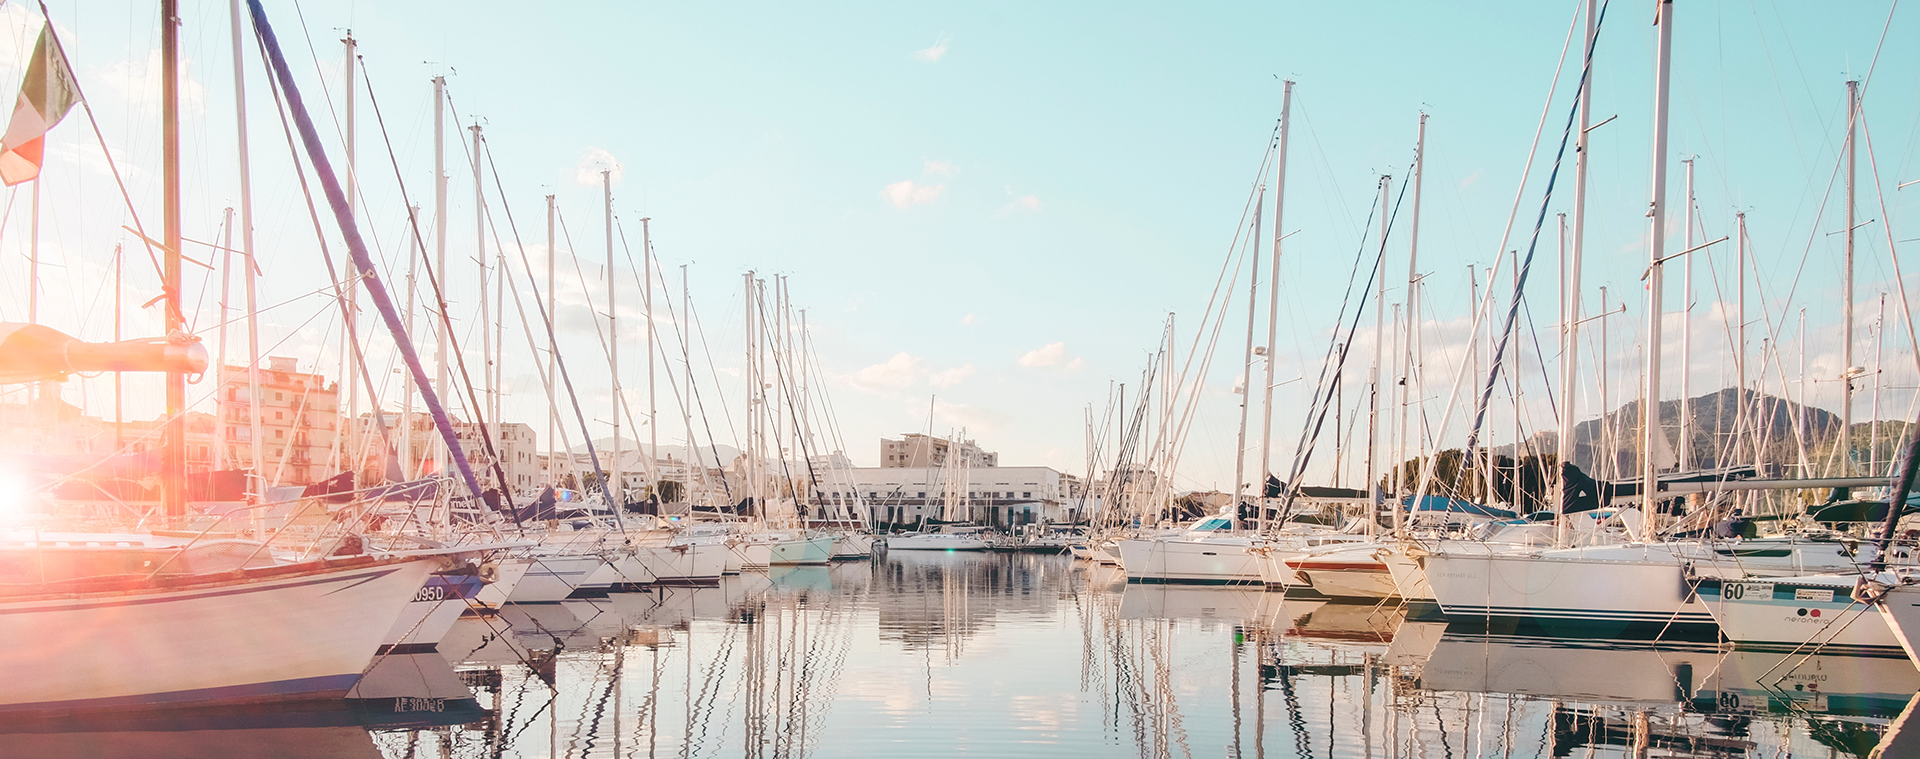
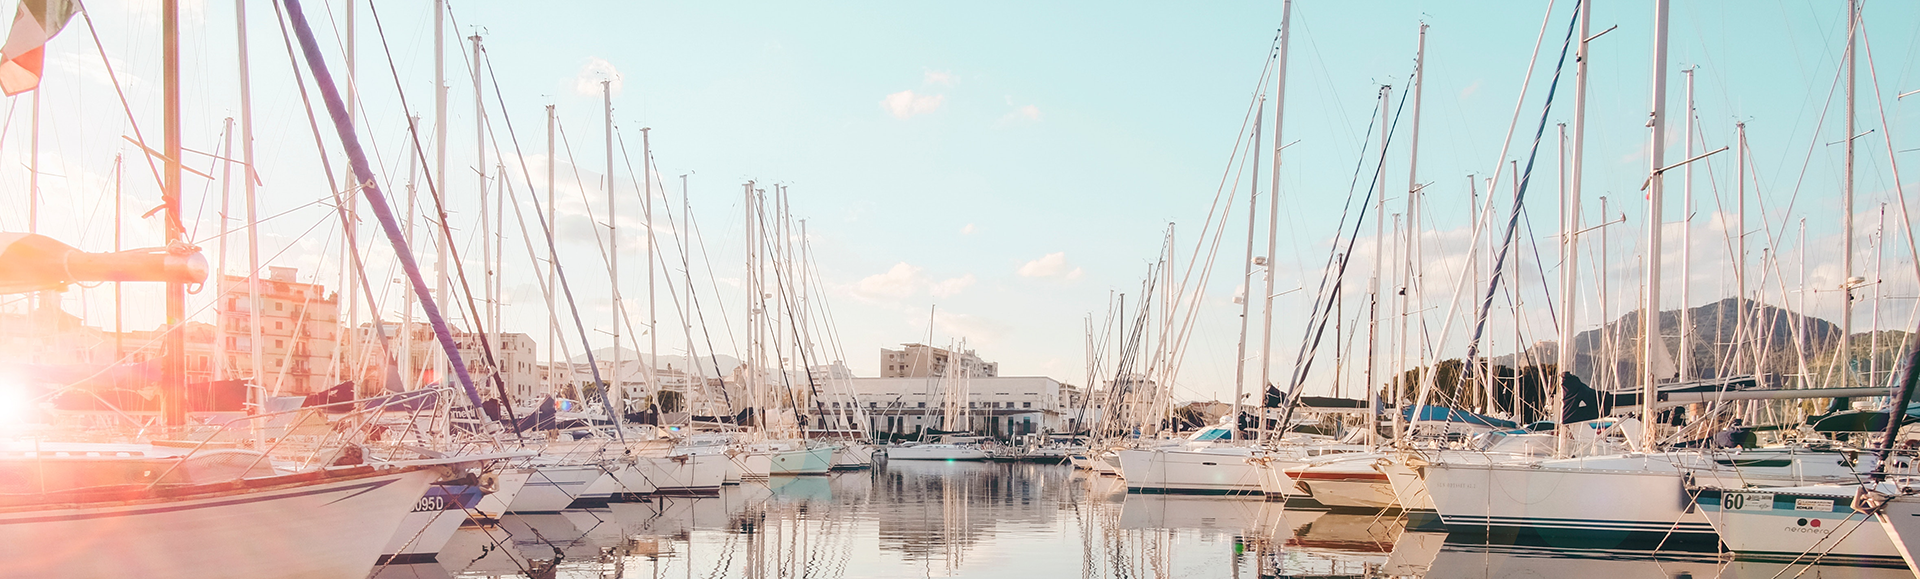
images fix

diff --git a/Seværdigheder.html b/Seværdigheder.html
@@ -28,7 +28,7 @@
     <!-- Header start  -->
     <header id="subpage-header">
         <figure id="header-figure">
-            <img src="img/lystbaadehavn2.png" alt="lystbaadehavn">
+            <img src="img/cafe2.png" alt="cafe">
             <figcaption><h1>Seværdigheder</h1></figcaption>
         </figure>
     </header>

diff --git a/Kolding-som-designby.html b/Kolding-som-designby.html
@@ -37,7 +37,7 @@
 
   <header id="subpage-header">
     <figure id="header-figure">
-        <img src="img/mediegrafiker.jpg" alt="mediegrafiker">
+        <img src="img/mediegrafiker.png" alt="mediegrafiker">
         <figcaption><h1>Kolding som designby</h1></figcaption>
     </figure>
 </header>

diff --git a/css/style.css b/css/style.css
@@ -573,8 +573,6 @@ navigation end */
 }
 #header-figure {
   position: relative;
-  overflow: hidden;
-  height: 579px;
 }
 
 #header-figure img {
